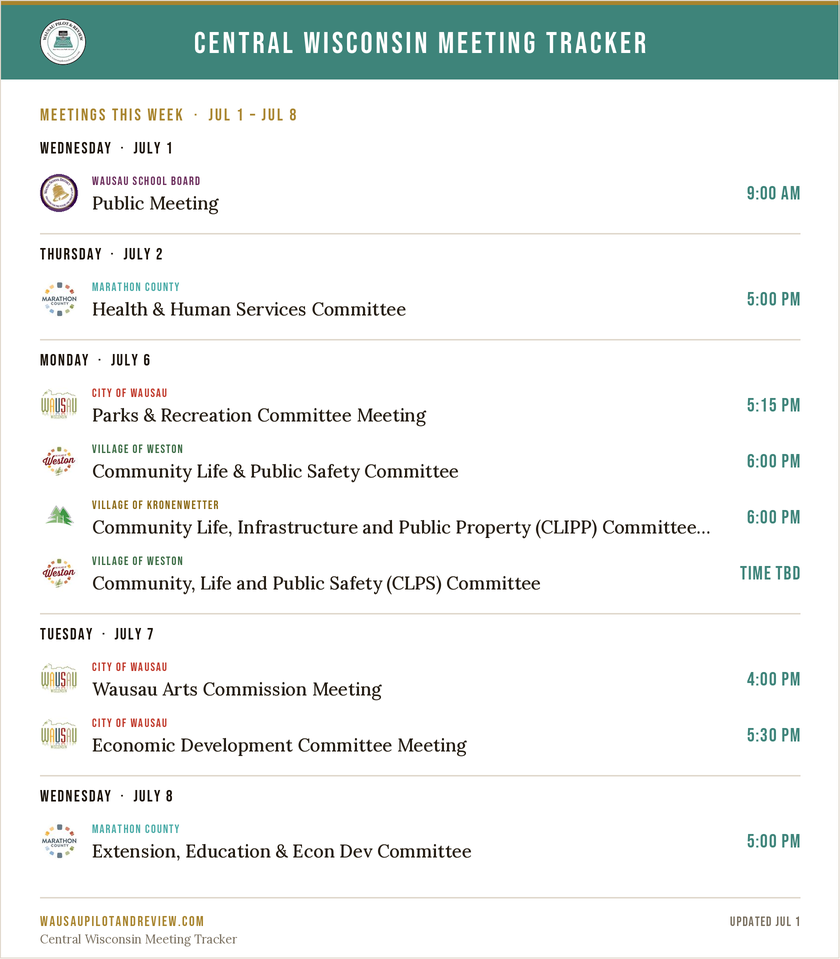
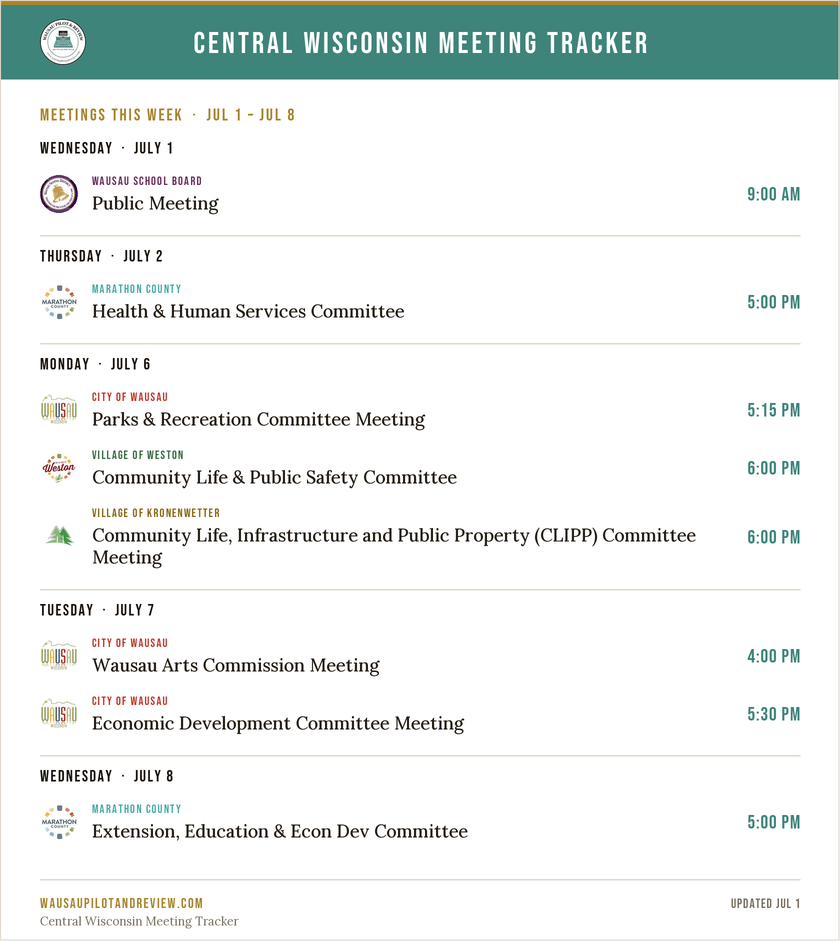
fix: dedup Weston upcoming, wrap long titles to 2 lines (tool + digest)
- update_upcoming: the AgendaCenter heading and the rule-based schedule spell
  the same Weston committee differently ('Community, Life and Public Safety
  (CLPS) Committee' vs 'Community Life & Public Safety Committee'), so they
  showed as two meetings. Dedup on a normalized committee key; on collision,
  enrich the scraped entry with the standard time + clean name instead of
  adding a duplicate. Also collapses Parks & Recreation name variants.
- JSX: upcoming meeting names wrap to 2 lines (webkit-line-clamp) instead of
  clipping to one with an ellipsis — full committee names now show.
- digest: same idea — meeting names wrap to up to 2 lines with per-row height
  instead of truncating with '…'.

diff --git a/marathon-meetings.jsx b/marathon-meetings.jsx
@@ -1211,7 +1211,10 @@ function UpcomingMeetings({ isMobile }) {
                                 fontFamily: "'Playfair Display', Georgia, serif",
                                 fontSize: "13px", fontWeight: 600,
                                 color: INK, lineHeight: 1.3,
-                                whiteSpace: "nowrap", overflow: "hidden", textOverflow: "ellipsis",
+                                // Wrap to up to two lines instead of clipping to
+                                // one, so long committee names show in full.
+                                display: "-webkit-box", WebkitLineClamp: 2,
+                                WebkitBoxOrient: "vertical", overflow: "hidden",
                               }}>{ev.name}</div>
                               <div style={{
                                 display: "flex", alignItems: "center", gap: "6px", marginTop: "3px",

diff --git a/generate_digest.py b/generate_digest.py
@@ -92,6 +92,26 @@ def _truncate(draw, text, font, max_w):
         text = text[:-1]
     return (text.rstrip() + ell) if text else ell
 
+def _wrap_lines(draw, text, font, max_w, max_lines=2):
+    """Greedy word-wrap into up to max_lines that each fit max_w. If the text
+    still overflows, the last line is ellipsized. Returns a list of lines."""
+    words = text.split()
+    lines, cur, wi = [], "", 0
+    while wi < len(words) and len(lines) < max_lines:
+        w = words[wi]
+        trial = (cur + " " + w).strip()
+        if not cur or _text_w(draw, trial, font) <= max_w:
+            cur, wi = trial, wi + 1
+        else:
+            lines.append(cur); cur = ""
+    if cur and len(lines) < max_lines:
+        lines.append(cur); cur = ""
+    if wi < len(words):  # ran out of lines — ellipsize the last one with the rest
+        last = lines[-1] if lines else ""
+        rest = (last + " " + " ".join(words[wi:])).strip()
+        lines[-1:] = [_truncate(draw, rest, font, max_w)]
+    return lines or [""]
+
 def _circle_avatar(path, d):
     """Return a circular RGBA avatar of diameter d (1x)."""
     dd = d * SCALE
@@ -142,18 +162,33 @@ def _time_key(t):
 def render(today, days=7, out="digest.png"):
     week = load_week(today, days)
 
-    # -- measure height --------------------------------------------------------
+    # -- layout constants ------------------------------------------------------
     TOP_RULE   = 5
     HEADER_H   = 74
     SECTION_H  = 46
     DAY_H      = 40
-    ROW_H      = 56
     FOOTER_H   = 62
     GROUP_GAP  = 10
+    ROW_TOP    = 26      # name baseline offset within a row
+    LINE_H     = 22      # per name line
+    ROW_BOT    = 10      # padding below the name block
+
+    # -- pre-pass: wrap each meeting name to <=2 lines & size its row ----------
+    _mdraw = ImageDraw.Draw(Image.new("RGB", (10, 10)))
+    _nfont = lora(18, 500)
+    _tfont = bebas(19)
+    _text_x = MARGIN + 38 + 14   # after the 38px avatar
+    for _d, evs in week:
+        for ev in evs:
+            ev["_time_txt"] = ev["time"] or "TIME TBD"
+            ev["_time_w"] = _text_w(_mdraw, ev["_time_txt"], _tfont, tracking=1)
+            name_max = (WIDTH - MARGIN - ev["_time_w"] - 18) - _text_x
+            ev["_lines"] = _wrap_lines(_mdraw, ev["name"], _nfont, name_max, max_lines=2)
+            ev["_row_h"] = ROW_TOP + len(ev["_lines"]) * LINE_H + ROW_BOT
 
     body_h = 0
     for _d, evs in week:
-        body_h += DAY_H + len(evs) * ROW_H + GROUP_GAP
+        body_h += DAY_H + sum(ev["_row_h"] for ev in evs) + GROUP_GAP
     if not week:
         body_h = 90
     height = TOP_RULE + HEADER_H + SECTION_H + body_h + FOOTER_H + 18
@@ -206,32 +241,31 @@ def render(today, days=7, out="digest.png"):
 
         for ev in evs:
             label, accent, avatar_file = SOURCES[ev["source"]]
-            row_cy = y + ROW_H / 2
+            row_h  = ev["_row_h"]
+            row_cy = y + row_h / 2
 
-            # avatar
+            # avatar (vertically centered in the row)
             av_d = 38
             av = _circle_avatar(PUBLIC_DIR / avatar_file, av_d)
             img.paste(av, (int(MARGIN * SCALE), int((row_cy - av_d / 2) * SCALE)), av)
 
             text_x = MARGIN + av_d + 14
 
-            # time (right-aligned) — measure first to bound the name
-            time_txt = ev["time"] or "TIME TBD"
+            # time (right-aligned, centered on the row)
             tfont = bebas(19)
-            time_w = _text_w(d, time_txt, tfont, tracking=1)
-            _tracked_text(d, (WIDTH - MARGIN - time_w, row_cy - 11), time_txt,
+            _tracked_text(d, (WIDTH - MARGIN - ev["_time_w"], row_cy - 11), ev["_time_txt"],
                           tfont, TEAL_DK, tracking=1)
 
             # entity label (source color, small caps)
             _tracked_text(d, (text_x, y + 9), label.upper(), bebas(12), accent, tracking=1.2)
 
-            # meeting name (serif), truncated to fit before the time column
-            name_max = (WIDTH - MARGIN - time_w - 18) - text_x
+            # meeting name (serif) — up to two wrapped lines, full title shown
             nfont = lora(18, 500)
-            name = _truncate(d, ev["name"], nfont, name_max)
-            d.text((text_x * SCALE, (y + 26) * SCALE), name, font=nfont, fill=NAME_INK)
+            for i, line in enumerate(ev["_lines"]):
+                d.text((text_x * SCALE, (y + ROW_TOP + i * LINE_H) * SCALE),
+                       line, font=nfont, fill=NAME_INK)
 
-            y += ROW_H
+            y += row_h
         y += GROUP_GAP
 
     # -- footer ----------------------------------------------------------------

diff --git a/update_upcoming.py b/update_upcoming.py
@@ -126,6 +126,20 @@ WESTON_SCHEDULE = [
 WESTON_CALENDAR_BASE = "https://www.westonwi.gov"
 
 
+def _norm_committee(name: str) -> str:
+    """Canonical key for de-duping a committee across sources. AgendaCenter
+    headings and the rule-based schedule spell the same body differently
+    ('Community, Life and Public Safety (CLPS) Committee' vs
+    'Community Life & Public Safety Committee'); normalize both to one key so
+    they don't show up as two meetings."""
+    s = name.lower()
+    s = re.sub(r"\([^)]*\)", " ", s)                 # drop parentheticals e.g. "(CLPS)"
+    s = s.replace("&", " and ")
+    s = re.sub(r"[^a-z0-9 ]", " ", s)                # drop commas/periods
+    s = re.sub(r"\b(committee|commission)\b", " ", s)  # trailing type word
+    return re.sub(r"\s+", " ", s).strip()
+
+
 def fetch_weston_upcoming(days_ahead: int = 60) -> list[dict]:
     today     = date.today()
     end_date  = today + timedelta(days=days_ahead)
@@ -152,7 +166,7 @@ def fetch_weston_upcoming(days_ahead: int = 60) -> list[dict]:
                 try:
                     d = date(int(yr), int(mo), int(dy))
                     if today <= d <= end_date:
-                        key = (d.isoformat(), committee)
+                        key = (d.isoformat(), _norm_committee(committee))
                         results[key] = {
                             "date":   d.isoformat(),
                             "time":   "",
@@ -172,7 +186,7 @@ def fetch_weston_upcoming(days_ahead: int = 60) -> list[dict]:
             meeting_date = nth_weekday(yr, mo, weekday, nth)
             if meeting_date is None or not (today <= meeting_date <= end_date):
                 continue
-            key = (meeting_date.isoformat(), committee)
+            key = (meeting_date.isoformat(), _norm_committee(committee))
             if key not in results:
                 results[key] = {
                     "date":   meeting_date.isoformat(),
@@ -182,6 +196,14 @@ def fetch_weston_upcoming(days_ahead: int = 60) -> list[dict]:
                     "source": "weston",
                 }
                 rule_added += 1
+            else:
+                # Same body already posted by the scrape — enrich it rather than
+                # duplicating: fill in the standard time if the scrape lacked one,
+                # and prefer the clean scheduled name for display.
+                ex = results[key]
+                if not ex.get("time"):
+                    ex["time"] = time_str
+                ex["name"] = committee
 
     print(f"  📅  Weston rule-based: {rule_added} additional meetings projected")
     return sorted(results.values(), key=lambda x: (x["date"], x["time"]))